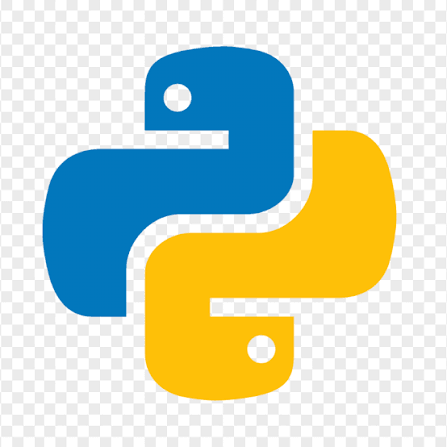
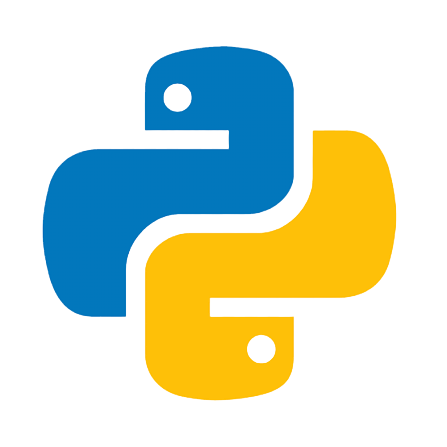
remove the background of the img

diff --git a/index.html b/index.html
@@ -220,7 +220,7 @@
           <img src="./Assest/Tech/12.png" alt="Node.js">
         </div>
         <div class="tech-item parallax-element" data-speed="0.16">
-          <img src="./Assest/Tech/canva.jpg" alt="Node.js">
+          <img src="./Assest/Tech/13.png" alt="Node.js">
         </div>
       </div>
     </div>
